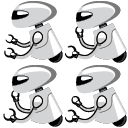
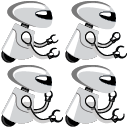
Oh baby fixed stuff and made the bot actually work.

diff --git a/Candybot/src/com/embed/candy/CandyLevelActivity.java b/Candybot/src/com/embed/candy/CandyLevelActivity.java
@@ -581,15 +581,14 @@ public class CandyLevelActivity extends LayoutGameActivity implements ITMXTilePr
 				face.enemyPS = enemyPS;
 				mScene.attachChild(enemyPS);
 			} else if (type == BOT) {
-//				final PointParticleEmitter botPPE = new PointParticleEmitter(64 * column + 24, 64 * row + 60);
-//				final ParticleSystem botPS = new ParticleSystem(botPPE, 5, 10, 20, mBotParticleTextureRegion);
-//				botPS.addParticleInitializer(new VelocityInitializer(-3, 3, 0, 30));
-//				botPS.addParticleModifier(new ScaleModifier(1, 0, 0, 0.5f));
-//				botPS.addParticleModifier(new ColorModifier(0, 0.1f, 0.1f, 0.2f, 1, 0.5f, 0, 0.5f));
-//				botPS.addParticleModifier(new ExpireModifier(0.4f, 0.5f));
-//				face.botPPE = botPPE;
-//				face.botPS = botPS;
-//				mScene.attachChild(botPS);
+				final PointParticleEmitter botPPE = new PointParticleEmitter(64 * column + 24, 64 * row + 60);
+				final ParticleSystem botPS = new ParticleSystem(botPPE, 5, 10, 20, mBotParticleTextureRegion);
+				botPS.addParticleModifier(new ScaleModifier(0.5f, 1, 0, 0.5f));
+				botPS.addParticleModifier(new ColorModifier(0, 0.1f, 0.1f, 0.2f, 1, 0.5f, 0, 0.5f));
+				botPS.addParticleModifier(new ExpireModifier(0.4f, 0.5f));
+				face.botPPE = botPPE;
+				face.botPS = botPS;
+				mScene.attachChild(botPS);
 			}
 		}
 	}

diff --git a/Candybot/src/com/embed/candy/sprite/CandyAnimatedSprite.java b/Candybot/src/com/embed/candy/sprite/CandyAnimatedSprite.java
@@ -85,8 +85,8 @@ public class CandyAnimatedSprite extends AnimatedSprite {
 
 	public boolean enemyDead = false;
 
-	public static final long[] botDurations = new long[] { 3000, 100, 1000, 100, 5000, 100, 1000, 100, 5000, 100, 100, 100, 5000, 500 };
-	public static final int[] botFrames = new int[] { 0, 1, 2, 1, 0, 3, 4, 3, 0, 5, 6, 5, 0, 7 };
+	public static final long[] botDurations = new long[] {5000,500,2000,100,100,3000,100,100};
+	public static final int[] botFrames = new int[] {0,1,0,1,2,3,2,1};
 
 	public static final long[] enemyDurations = new long[] { 3000, 100, 2000, 100, 2000, 100, 1000, 100, 2000, 300, 2000, 100, 2000, 100 };
 	public static final int[] enemyFrames = new int[] { 0, 1, 2, 1, 0, 3, 4, 3, 0, 5, 0, 6, 7, 6 };
@@ -150,6 +150,13 @@ public class CandyAnimatedSprite extends AnimatedSprite {
 			candyLastMove = columnDelta;
 			if (columnDelta != 0) {
 				lastDirectionalMove = columnDelta;
+				if (type == BOT) {
+					if (columnDelta == 1) {
+						setFlippedHorizontal(false);
+					} else if (columnDelta == -1) {
+						setFlippedHorizontal(true);
+					}
+				}
 			}
 			objectArray[index][ROW] += rowDelta;
 			objectArray[index][COLUMN] += columnDelta;
